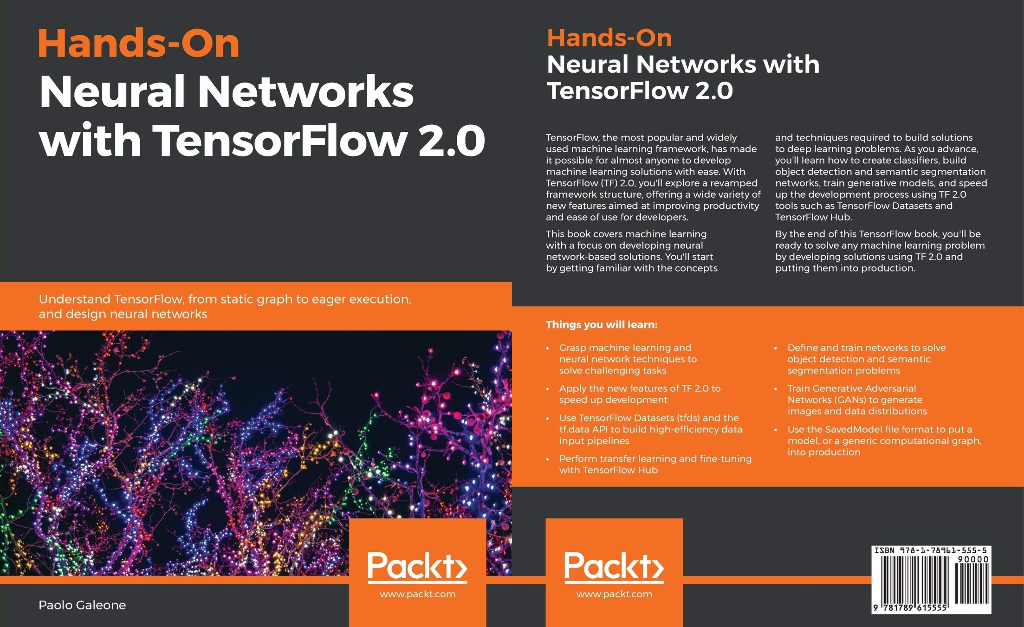
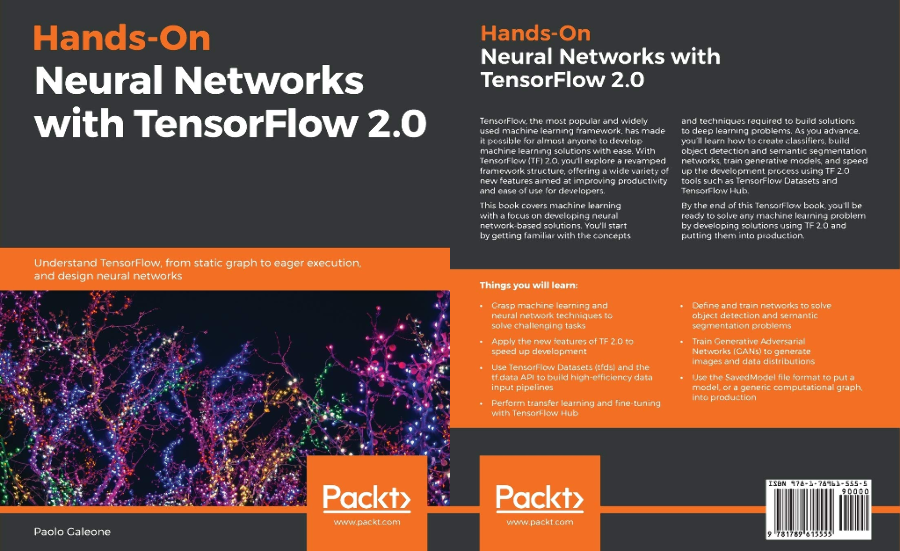
Resize cover and remove subtitle

Changed region(s): [[0.9333, 0.8947, 0.9644, 0.9564], [0.6222, 0.216, 0.6533, 0.2468]]

diff --git a/slides/slides.md b/slides/slides.md
@@ -774,9 +774,7 @@ The talk is finished, and I hope you enjoyed it. I just want to let you know tha
 If you enjoyed this talk and you want to get informed of new articles published on the blog, or when the book is out, just leave your email to the subscribe page.
 -->
 
-> ## Hands-On Neural Networks with TensorFlow 2.0
-> 
-> Understand TensorFlow, from static graph to eager execution, and design neural networks.
+## Hands-On Neural Networks with TensorFlow 2.0
 
 ![book cover](images/cover.png)
 
